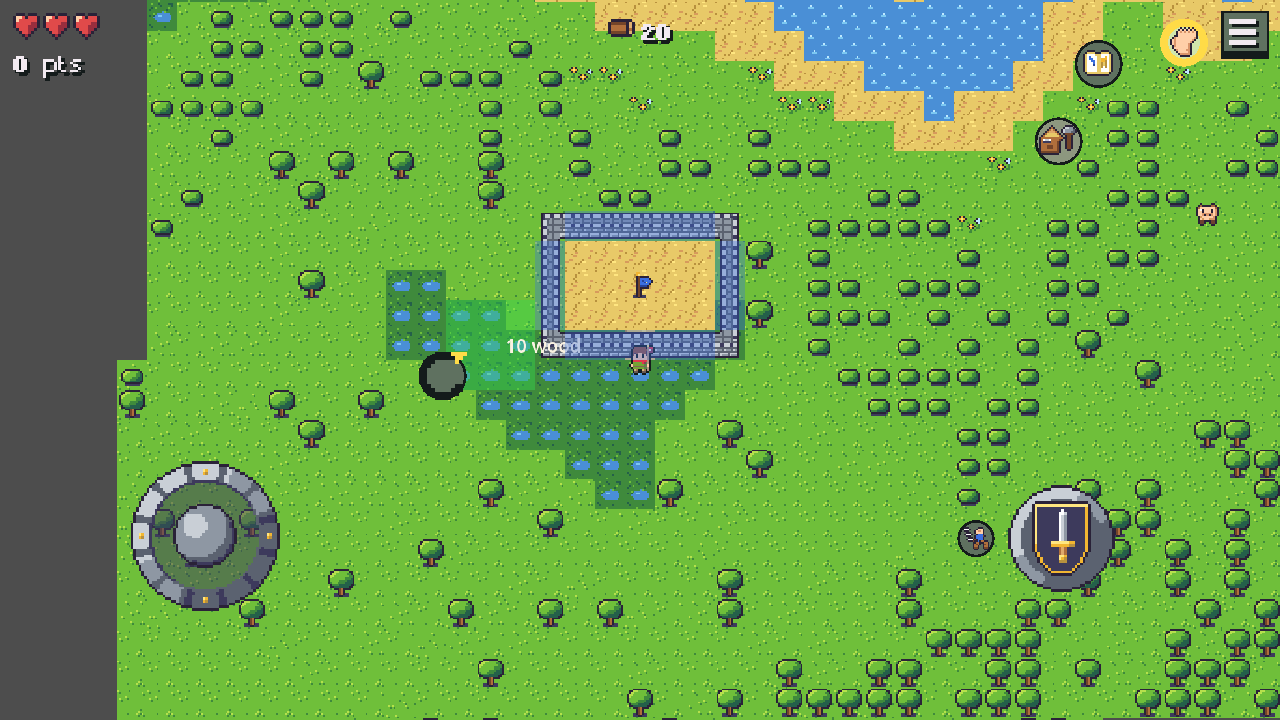
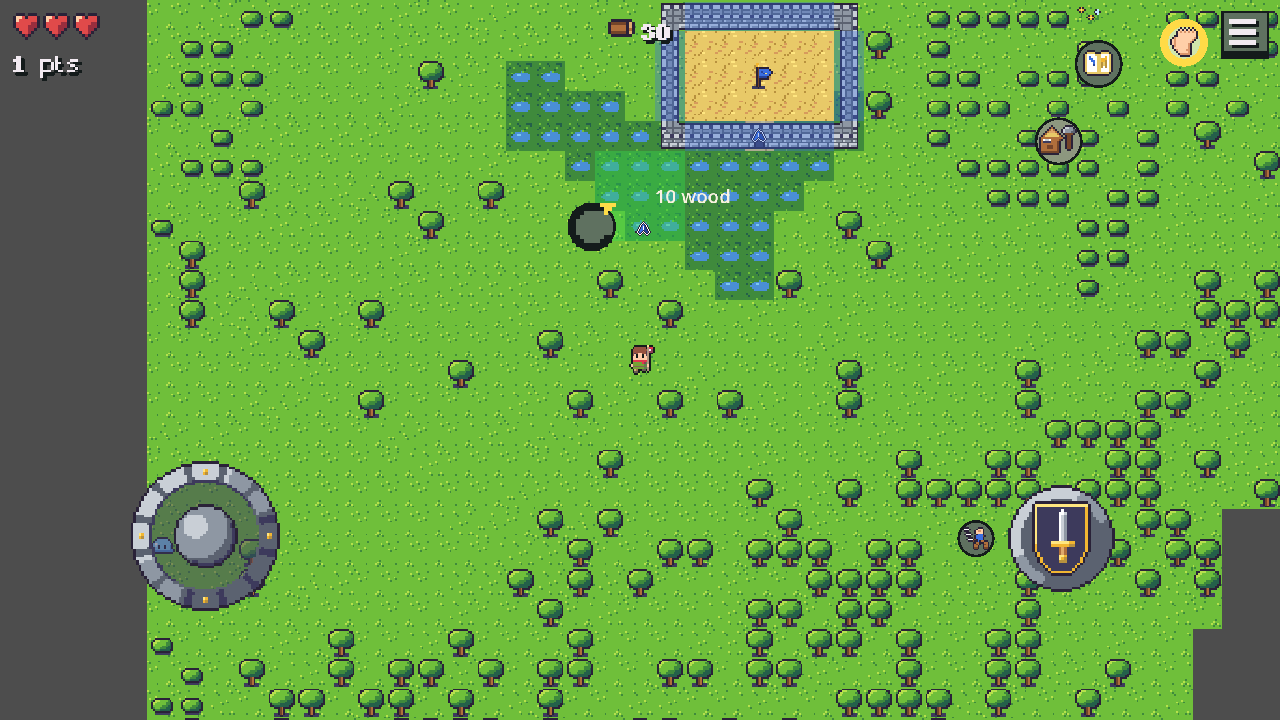
Improve footprint rotation evidence (#493)
Draw a rotated facing marker on tower previews and placed structures
because the wooden tower tiles look the same at 90°. Teach the drive to
stand clear of the footprint, tap FootprintRotateButton, and place two
towers at rotations 0 and 90° with green preview shots.

diff --git a/docs/architecture.md b/docs/architecture.md
@@ -79,6 +79,7 @@ Where each part of the game lives today, how data moves between the parts, and w
 | `Scripts/mechanics/building/build_costs.gd` | Wood cost and refund per buildable; buy: check wood, spend, place | new (#272) |
 | `Scripts/mechanics/building/build_placement.gd` | Buildings column of round Plank/Tower/Wall buttons, snapped plank/wall and tower footprint preview via ConstructionPlacer | stays (#225 / #273 / #276, #480) |
 | `Scripts/mechanics/building/build_placement_rotate.gd` | Round rotate control beside footprint placement preview | new (#493) |
+| `Scripts/mechanics/building/footprint_orientation.gd` | Rotated facing marker on preview and placed footprint tools | new (#493) |
 | `Scripts/mechanics/building/structure_requests.gd` | Host-request pipeline for towers and free-form walls | new (#497, #498) |
 | `Scripts/mechanics/walls/wall_builder.gd` | Free-form palisade cells, shared solve with structure walls and towers, piece and collar paint, kept on redraw | new (#276) |
 | `Scripts/world/plant_picker.gd` | Plant or stones for one walkable cell from altitude, moisture, chance and biome | moved from `Scripts/TileMap.gd` (#370 put that file over its 500-line budget); `Scripts/TileMap.gd` keeps `plant_tile` and `structure_tile` wrappers |

diff --git a/.cursor/skills/verify-flagoria/features/footprint-rotation.md b/.cursor/skills/verify-flagoria/features/footprint-rotation.md
@@ -33,7 +33,9 @@ Preconditions: `doctor.sh` exits `0`. Time cost: three headless tests
 
 - **Run (headless).** `--only=structure_rotation_four_turns,structure_rotation_blocked,structure_rotation_save_roundtrip`, or full `tools/verify.sh`.
 - **Proof.** Those three headers in `artifacts/verify.log` without `FAIL`.
-  Drive snapshots `preview-0`, `preview-90`, `placed-90` phone PNGs.
+  Drive snapshots `preview-0`, `preview-90`, and `placed-two` phone PNGs
+  (two towers at rotation 0 and 90°; wooden tiles are symmetric so a rotated
+  marker sprite shows facing).
 
 ## Gotchas
 
